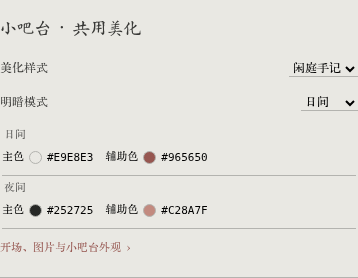
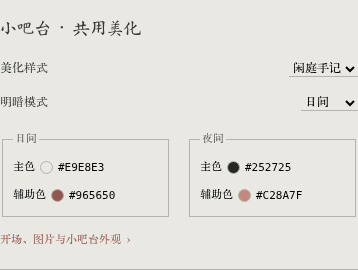
Restore framed day and night cards with compact inline colors

diff --git a/assets/folio/folio.css b/assets/folio/folio.css
@@ -117,9 +117,9 @@ html.sb-bar.sb-folio #AdvancedFormatting .sb-folio-editor label[for=context_deri
 .sb-shared-appearance>label{display:flex;align-items:center;justify-content:space-between;gap:10px;padding:9px 0}
 .sb-shared-appearance select{max-width:60%;font:12px var(--sb-f-serif)}
 .sb-folio-appearance-title{font:17px var(--sb-type-script);margin:5px 0 12px}
-.sb-folio-colors{display:grid;grid-template-columns:1fr;gap:5px;margin:8px 0}
-.sb-folio-colors fieldset{display:flex;align-items:center;gap:12px;border:0;border-bottom:1px solid var(--sb-bar-line);padding:5px 0 8px;min-width:0}.sb-folio-colors legend{font-size:11px;color:var(--sb-bar-sub)}
-.sb-folio-colors button{display:inline-flex;align-items:center;gap:5px;flex-wrap:nowrap;width:auto;min-width:0;padding:3px 0;border:0!important;background:none!important;font:11px var(--sb-f-serif);text-align:left;color:var(--sb-bar-ink)}
+.sb-folio-colors{display:grid;grid-template-columns:repeat(2,minmax(0,1fr));gap:16px;margin:12px 0}
+.sb-folio-colors fieldset{border:1px solid var(--sb-bar-line);padding:7px 10px;min-width:0}.sb-folio-colors legend{font-size:11px;color:var(--sb-bar-sub)}
+.sb-folio-colors button{display:flex;align-items:center;gap:5px;flex-wrap:nowrap;width:100%;min-width:0;padding:7px 0;border:0!important;background:none!important;font:11px var(--sb-f-serif);text-align:left;color:var(--sb-bar-ink)}
 .sb-folio-colors i{display:block;flex:0 0 13px;width:13px;height:13px;border-radius:50%;border:1px solid var(--sb-bar-line);margin:0}.sb-folio-colors code{font:11px ui-monospace,monospace!important;color:var(--sb-bar-ink)!important;width:auto!important;background:none!important;padding:0!important;border:0!important;box-shadow:none!important;white-space:nowrap}
 .sb-shared-appearance>[data-folio-open]{border:0!important;background:none!important;color:var(--sb-bar-accent);padding:4px 0;font:11px var(--sb-f-serif)}
 html.sb-bar.sb-folio :is(.sb-lighting-group,.sb-format-group,#rm_extensions_block .inline-drawer){border-radius:0;border-left:1px solid var(--sb-bar-line);padding-left:13px;margin-top:18px;box-sizing:border-box}
@@ -266,7 +266,7 @@ html.sb-bar.sb-folio #Backgrounds #bg_tabs .bg_tab_panel{height:auto!important;o
 #sb-root.sb-folio-phone .sb-grid{gap:10px;font-size:13px}
 #sb-root.sb-folio-phone .sb-srow{min-height:39px;font:12px var(--sb-type-body)}
 .sb-folio-card [hidden],.sb-folio-editor[hidden]{display:none!important}
-@media(max-width:380px){html.sb-bar.sb-folio .sb-folio-colors{gap:9px}.sb-folio-colors fieldset{gap:7px;padding:4px 0 7px}html.sb-bar.sb-folio .sb-folio-card{flex-basis:156px!important;width:156px!important}}
+@media(max-width:380px){html.sb-bar.sb-folio .sb-folio-colors{gap:9px}.sb-folio-colors fieldset{padding:6px 8px}html.sb-bar.sb-folio .sb-folio-card{flex-basis:156px!important;width:156px!important}}
 html.sb-bar.sb-folio #world_popup_new:before{content:'＋ 添一笺'!important}html.sb-bar.sb-folio #create_dummy_persona:before{content:'＋ 落一名'!important}html.sb-bar.sb-folio #rm_button_create:before{content:'＋ 逢一人'!important}html.sb-bar.sb-folio #favorite_button:before{content:'☆ 常念'!important}html.sb-bar.sb-folio #favorite_button.fav_on:before{content:'★ 常念'!important}html.sb-bar.sb-folio #world_button:before{content:'世间录'!important}html.sb-bar.sb-folio #char_connections_button:before{content:'名帖'!important}html.sb-bar.sb-folio #Backgrounds .mobile-only-menu-toggle{display:flex!important;align-items:center;justify-content:center;border-radius:0!important;z-index:4}html.sb-bar.sb-folio #Backgrounds :is(.jg-menu,.bg_folder_tile_menu){border-radius:0!important;box-shadow:none!important}
 html.sb-bar.sb-folio :is(.sb-page-bartenders,.sb-page-bartender) .sb-head:after{left:0;right:0}
 html.sb-bar.sb-folio .sb-folio-lines>span{position:relative;display:block;padding:0}

diff --git a/docs/appearance-cleanup-review.md b/docs/appearance-cleanup-review.md
@@ -3,7 +3,7 @@
 本批以 0.10.2 为基础，原生 UI 主题联动仅讨论，不修改其字体滑杆、头像形状、聊天风格或颜色存储。
 
 - 竖排中文保留；英文、数字和括号连续侧转，覆盖主题所有竖排区域及动态加入的条目，不再逐字直立。
-- 装帧的色号取消深色代码背景，紧跟 13px 圆形色点；日间和夜间各占一行。外观对话框缩窄，页面宽度改称“小吧台宽度”，四个图片上传项显示当前缩图。
+- 装帧保留日间、夜间并排的细框卡片；卡片内主色、辅助色各一行，色号取消深色代码背景，紧跟 13px 圆形色点。外观对话框缩窄，页面宽度改称“小吧台宽度”，其中日夜配色各占一行，四个图片上传项显示当前缩图。
 - 默认随身匣移除头图铅笔，保留直接换头像/头图；署名、签名、座位、酒单和日期可原位修改，沿用全局个人资料。默认页齿轮仅移除头像/背景/配色入口。
 - 恢复原生助手问候，保留原消息内容；头像和头图共享默认随身匣的日夜图片。未设置时使用原生助手头像和灰阶头图。
 - 聊天头像、头图可点击裁图上传。角色头像/头图写回角色资料；自己的头像/头图写回个人资料及朋友圈头图；X 的独立来源保持原有归属。裁图中切换聊天会放弃写入原聊天以外的资料。
